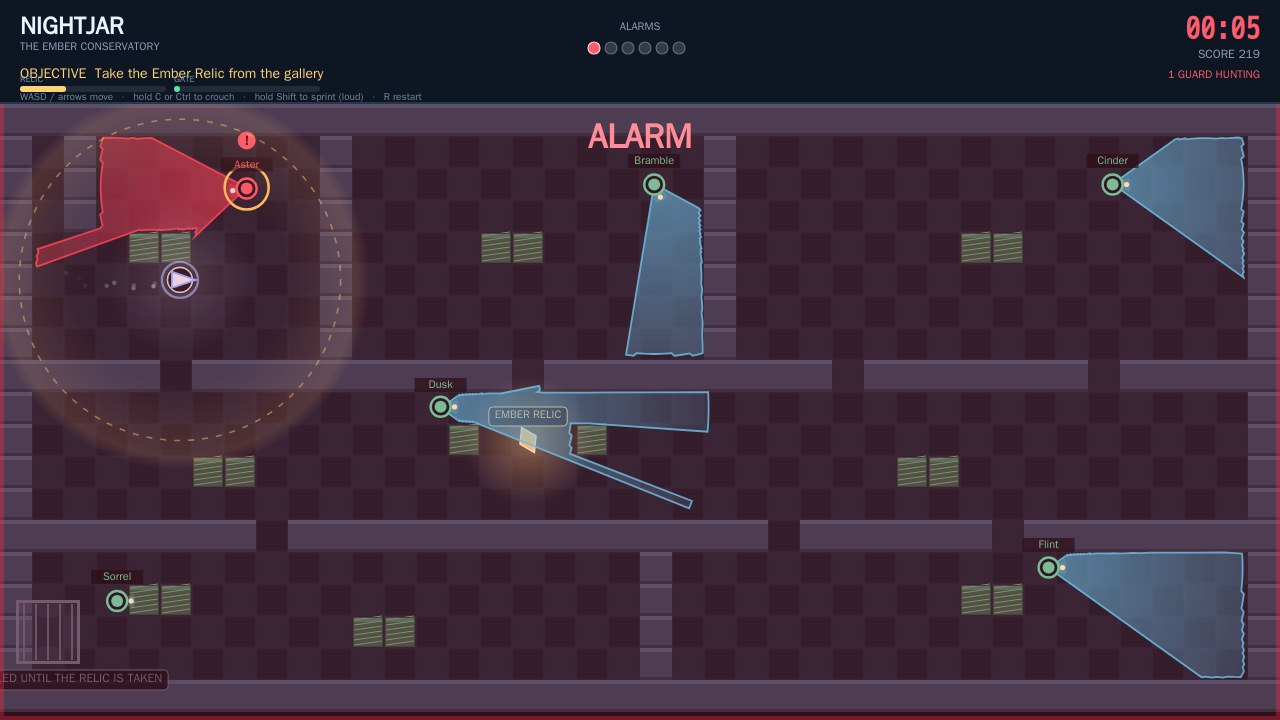
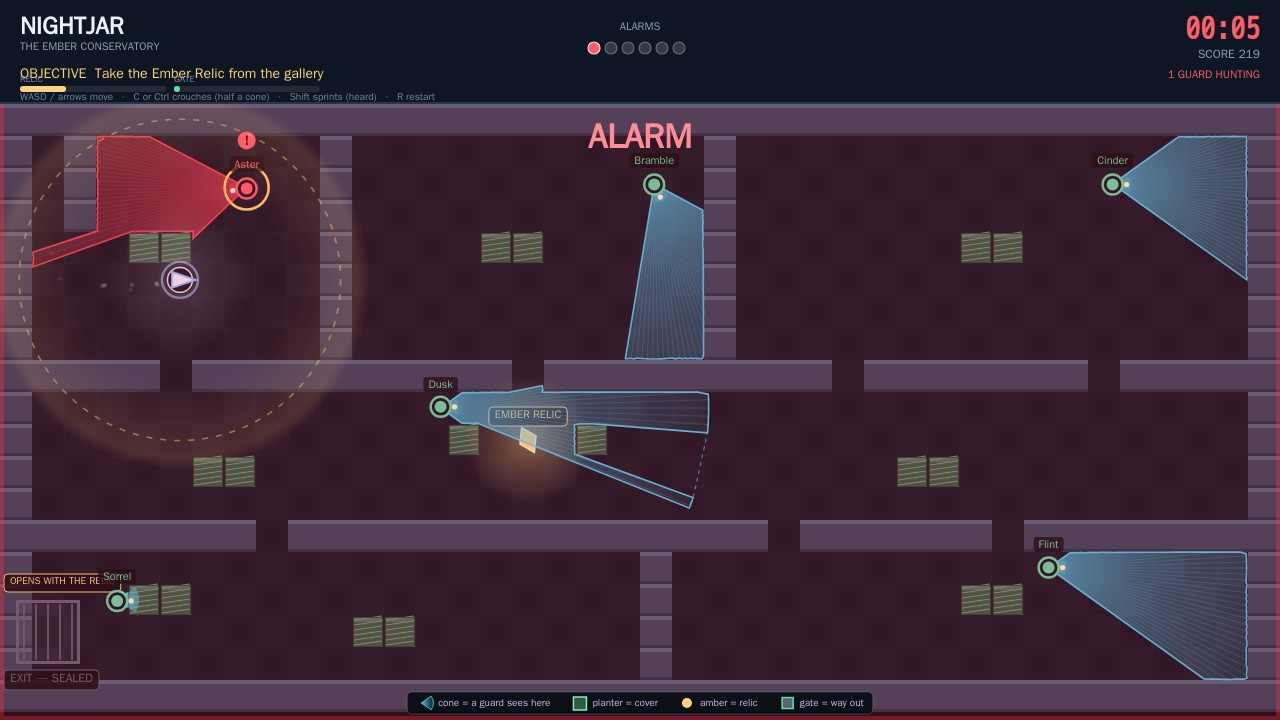
Nightjar: legible cones, exit plate on screen, escape leads the sheet

diff --git a/game/src/render.js b/game/src/render.js
@@ -112,8 +112,11 @@ function coverHidesThief(world, cover) {
 function plateLabel(ctx, text, x, y, colour, size = 12) {
   ctx.font = `700 ${size}px ${FONT}`;
   const width = ctx.measureText(text).width + 12;
-  ctx.fillStyle = 'rgba(5,9,15,0.82)';
-  roundRect(ctx, x - width / 2, y - size, width, size + 8, 4);
+  // Clamp the plate inside the field: a label on a map-edge object such as the west gate must not
+  // lose half its words off the side of the screen.
+  const left = Math.max(4, Math.min(FIELD.width - width - 4, x - width / 2));
+  ctx.fillStyle = 'rgba(5,9,15,0.86)';
+  roundRect(ctx, left, y - size, width, size + 8, 4);
   ctx.fill();
   ctx.strokeStyle = colour;
   ctx.lineWidth = 1;
@@ -121,7 +124,7 @@ function plateLabel(ctx, text, x, y, colour, size = 12) {
   ctx.fillStyle = colour;
   ctx.textAlign = 'center';
   ctx.textBaseline = 'middle';
-  ctx.fillText(text, x, y - size / 2 + 2);
+  ctx.fillText(text, left + width / 2, y - size / 2 + 2);
 }
 
 /** The gate: barred and red while the relic is out there, green and lit once it is in hand. */
@@ -161,7 +164,12 @@ function drawExit(ctx, world) {
   ctx.restore();
   // The gate's caption states the rule, not just the state: a locked exit that never says why reads
   // as scenery, and the judge's first criterion is an exit to reach unseen.
-  plateLabel(ctx, open ? 'EXIT — OPEN' : 'EXIT — SEALED UNTIL THE RELIC IS TAKEN', x, y + EXIT.height / 2 + 18, colour, 12);
+  plateLabel(ctx, open ? 'EXIT — OPEN' : 'EXIT — SEALED', x, y + EXIT.height / 2 + 18, colour, 12);
+  if (!open) {
+    // The rule is stated on a second line rather than in one long label, so the plate stays on screen
+    // at the map's west edge instead of running off it.
+    plateLabel(ctx, 'OPENS WITH THE RELIC', x, y - EXIT.height / 2 - 16, PALETTE.relic, 10);
+  }
   if (open) {
     // A direction arrow so the way out is never hunted for after the pickup.
     const pulse2 = 0.55 + 0.45 * Math.sin(world.time * 5);
@@ -212,40 +220,102 @@ function drawCone(ctx, world, guard) {
   const state = guard.viewState ?? 'calm';
   const colour = state === 'alert' ? PALETTE.coneAlarm : state === 'suspicious' ? PALETTE.coneSeen : PALETTE.cone;
   const range = state === 'alert' ? GUARD.coneRange * 1.25 : GUARD.coneRange;
-  const rays = 84;
+  const rays = 120;
   const points = [];
+  const reach = [];
   for (let i = 0; i <= rays; i += 1) {
     const angle = guard.facing - GUARD.coneAngle + (i / rays) * GUARD.coneAngle * 2;
+    const cos = Math.cos(angle);
+    const sin = Math.sin(angle);
     let distance = range;
-    // March out in small steps and stop at the first opaque tile: the cone's edge is the wall.
-    for (let d = 6; d <= range; d += 3) {
-      const px = guard.x + Math.cos(angle) * d;
-      const py = guard.y + Math.sin(angle) * d;
-      const { col, row } = tileOf(px, py);
+    // March out in one-pixel steps and stop at the first opaque tile, so the cut edge of the cone
+    // lands on the wall instead of stair-stepping across it.
+    for (let d = 4; d <= range; d += 1) {
+      const { col, row } = tileOf(guard.x + cos * d, guard.y + sin * d);
       const ch = charAt(world.level.tiles, col, row);
       if (ch === '#' || ch === 'c') {
-        // Stop short of the obstruction: a cone must never paint over a wall.
-        distance = Math.max(6, d - 7);
+        distance = Math.max(0, d - 2);
         break;
       }
     }
-    points.push([guard.x + Math.cos(angle) * distance, guard.y + Math.sin(angle) * distance]);
+    reach.push(distance);
+    points.push([guard.x + cos * distance, guard.y + sin * distance]);
+  }
+
+  // A guard staring into a wall still gets a short stub of light rather than nothing: a missing cone
+  // reads as a guard with no eyes, and every guard on the floor has to look dangerous.
+  const longest = Math.max(...reach);
+  const stub = longest < 26 ? 26 / Math.max(longest, 1) : 1;
+  if (stub > 1) {
+    const cos = Math.cos(guard.facing);
+    const sin = Math.sin(guard.facing);
+    ctx.save();
+    ctx.globalAlpha = 0.5;
+    ctx.fillStyle = colour;
+    ctx.beginPath();
+    ctx.moveTo(guard.x, guard.y);
+    ctx.arc(guard.x, guard.y, 22, guard.facing - GUARD.coneAngle, guard.facing + GUARD.coneAngle);
+    ctx.closePath();
+    ctx.fill();
+    ctx.restore();
   }
 
   ctx.save();
-  const gradient = ctx.createRadialGradient(guard.x, guard.y, 8, guard.x, guard.y, range);
-  gradient.addColorStop(0, `${colour}99`);
-  gradient.addColorStop(0.55, `${colour}55`);
-  gradient.addColorStop(1, `${colour}22`);
+  // The fill is light, not paint: the floor, the planters and the grout all stay readable through it,
+  // and the beam fades along its own length so its far edge is soft.
+  const gradient = ctx.createRadialGradient(guard.x, guard.y, 6, guard.x, guard.y, Math.max(range, 30));
+  gradient.addColorStop(0, `${colour}8c`);
+  gradient.addColorStop(0.45, `${colour}4d`);
+  gradient.addColorStop(1, `${colour}14`);
   ctx.fillStyle = gradient;
   ctx.beginPath();
   ctx.moveTo(guard.x, guard.y);
   for (const [px, py] of points) ctx.lineTo(px, py);
   ctx.closePath();
   ctx.fill();
-  ctx.strokeStyle = `${colour}dd`;
-  ctx.lineWidth = 1.8;
+
+  // Fine radial striations, so the shape reads as a beam of light rather than a flat polygon.
+  ctx.save();
+  ctx.beginPath();
+  ctx.moveTo(guard.x, guard.y);
+  for (const [px, py] of points) ctx.lineTo(px, py);
+  ctx.closePath();
+  ctx.clip();
+  ctx.strokeStyle = `${colour}2e`;
+  ctx.lineWidth = 1;
+  for (let i = 0; i < points.length; i += 3) {
+    const [px, py] = points[i];
+    ctx.beginPath();
+    ctx.moveTo(guard.x, guard.y);
+    ctx.lineTo(px, py);
+    ctx.stroke();
+  }
+  ctx.restore();
+
+  // The outline, and a dashed arc where the beam reaches its range: solid edges are hard geometry,
+  // dashed ones are a limit, so the two never get confused.
+  ctx.strokeStyle = `${colour}e6`;
+  ctx.lineWidth = 1.6;
+  ctx.beginPath();
+  ctx.moveTo(guard.x, guard.y);
+  for (const [px, py] of points) ctx.lineTo(px, py);
+  ctx.closePath();
   ctx.stroke();
+
+  ctx.setLineDash([4, 4]);
+  ctx.strokeStyle = `${colour}99`;
+  ctx.lineWidth = 1.2;
+  ctx.beginPath();
+  const capFrom = Math.round(rays * 0.14);
+  const capTo = Math.round(rays * 0.86);
+  for (let i = capFrom; i <= capTo; i += 1) {
+    if (reach[i] < range * 0.92) continue;
+    const [px, py] = points[i];
+    if (i === capFrom) ctx.moveTo(px, py);
+    else ctx.lineTo(px, py);
+  }
+  ctx.stroke();
+  ctx.setLineDash([]);
   ctx.restore();
 }
 
@@ -297,8 +367,11 @@ function drawGuard(ctx, world, guard) {
   ctx.font = `600 11px ${FONT}`;
   ctx.textAlign = 'center';
   ctx.textBaseline = 'middle';
-  ctx.fillStyle = 'rgba(5,9,15,0.72)';
-  ctx.fillRect(guard.x - 26, guard.y - 30, 52, 14);
+  // The name plate is measured, not fixed: a long name must not spill past its own backing.
+  const nameW = ctx.measureText(guard.name).width + 10;
+  ctx.fillStyle = 'rgba(5,9,15,0.78)';
+  roundRect(ctx, guard.x - nameW / 2, guard.y - 31, nameW, 15, 3);
+  ctx.fill();
   ctx.fillStyle = colour;
   ctx.fillText(guard.name, guard.x, guard.y - 23);
 
@@ -405,6 +478,27 @@ function drawPlayer(ctx, world) {
     ctx.strokeStyle = '#fff4d2';
     ctx.lineWidth = 1.4;
     ctx.stroke();
+    ctx.restore();
+  }
+
+  // A small "YOU" tag under the thief. The judge has one frame to work out which token is the
+  // player, and a cyan chevron among amber guards still needs to be named once.
+  if (p.hasRelic || world.screen === SCREEN_PLAY) {
+    ctx.save();
+    ctx.font = `700 9px ${FONT}`;
+    ctx.textAlign = 'center';
+    ctx.textBaseline = 'middle';
+    const label = p.crouched ? 'YOU — HIDDEN' : 'YOU';
+    const w = ctx.measureText(label).width + 8;
+    const ty = p.y + radius + 13;
+    ctx.fillStyle = 'rgba(5,10,16,0.8)';
+    roundRect(ctx, p.x - w / 2, ty - 6, w, 12, 3);
+    ctx.fill();
+    ctx.strokeStyle = 'rgba(95,215,255,0.7)';
+    ctx.lineWidth = 1;
+    ctx.stroke();
+    ctx.fillStyle = PALETTE.playerCloak;
+    ctx.fillText(label, p.x, ty);
     ctx.restore();
   }
 }
@@ -527,14 +621,14 @@ function drawHud(ctx, world) {
   ctx.textAlign = 'right';
   ctx.font = `600 11px ${FONT}`;
   ctx.fillStyle = alerts > 0 ? PALETTE.alert : suspicious > 0 ? PALETTE.suspicious : PALETTE.calm;
-  const watch = alerts > 0 ? `${alerts} GUARD${alerts > 1 ? 'S' : ''} HUNTING` : suspicious > 0 ? `${suspicious} SUSPICIOUS` : 'ALL CLEAR';
+  const watch = alerts > 0 ? `${alerts} GUARD${alerts > 1 ? 'S' : ''} HUNTING` : suspicious > 0 ? `${suspicious} SEEN YOU — SUSPICIOUS` : 'NO ALARMS YET';
   ctx.fillText(watch, rightX, 78);
 
   // The controls, so a first-time player knows how to move.
   ctx.textAlign = 'left';
   ctx.font = `500 10px ${FONT}`;
   ctx.fillStyle = 'rgba(142,163,189,0.8)';
-  ctx.fillText('WASD / arrows move   ·   hold C or Ctrl to crouch   ·   hold Shift to sprint (loud)   ·   R restart', 20, 100);
+  ctx.fillText('WASD / arrows move   ·   C or Ctrl crouches (half a cone)   ·   Shift sprints (heard)   ·   R restart', 20, 100);
 }
 
 /** The title, won and caught overlays: one panel, centred, with the run's numbers. */
@@ -593,6 +687,88 @@ function drawOverlay(ctx, world) {
 }
 
 /**
+ * A compact field-notes strip along the bottom wall band, with swatches drawn the same way the map
+ * draws them. A legend that rhymes with the art teaches the visual language in one glance — what a
+ * cone is, what cover is, what is safe, and where the way out is — and it sits on solid wall so it
+ * never hides the level.
+ */
+function drawFieldNotes(ctx) {
+  const items = [
+    ['cone = a guard sees here', PALETTE.cone, 'cone'],
+    ['planter = cover', PALETTE.coverSafe, 'cover'],
+    ['relic = the prize', PALETTE.relic, 'dot'],
+    ['gate = way out', PALETTE.exitOpen, 'gate'],
+    ['cyan = you', PALETTE.playerCloak, 'you'],
+  ];
+  ctx.save();
+  ctx.font = `600 10px ${FONT}`;
+  const gap = 26;
+  let total = 0;
+  for (const [label] of items) total += 16 + ctx.measureText(label).width + gap;
+  total -= gap;
+
+  const h = 22;
+  const y = FIELD.height - h - 6;
+  const x0 = FIELD.width / 2 - total / 2;
+  ctx.fillStyle = 'rgba(6,10,16,0.9)';
+  roundRect(ctx, x0 - 12, y, total + 24, h, 5);
+  ctx.fill();
+  ctx.strokeStyle = 'rgba(120,150,185,0.35)';
+  ctx.lineWidth = 1;
+  ctx.stroke();
+
+  ctx.textAlign = 'left';
+  ctx.textBaseline = 'middle';
+  let x = x0;
+  const cy = y + h / 2;
+  for (const [label, colour, kind] of items) {
+    if (kind === 'cone') {
+      const g = ctx.createRadialGradient(x + 2, cy, 1, x + 2, cy, 12);
+      g.addColorStop(0, `${colour}cc`);
+      g.addColorStop(1, `${colour}18`);
+      ctx.fillStyle = g;
+      ctx.beginPath();
+      ctx.moveTo(x + 2, cy);
+      ctx.arc(x + 2, cy, 12, -0.6, 0.6);
+      ctx.closePath();
+      ctx.fill();
+      ctx.strokeStyle = `${colour}dd`;
+      ctx.lineWidth = 1;
+      ctx.stroke();
+    } else if (kind === 'cover') {
+      ctx.fillStyle = PALETTE.cover;
+      ctx.fillRect(x, cy - 6, 13, 13);
+      ctx.strokeStyle = colour;
+      ctx.lineWidth = 1.4;
+      ctx.strokeRect(x, cy - 6, 13, 13);
+    } else if (kind === 'dot') {
+      ctx.beginPath();
+      ctx.arc(x + 6, cy, 5, 0, Math.PI * 2);
+      ctx.fillStyle = colour;
+      ctx.fill();
+    } else if (kind === 'you') {
+      ctx.beginPath();
+      ctx.moveTo(x + 11, cy);
+      ctx.lineTo(x + 1, cy + 5);
+      ctx.lineTo(x + 1, cy - 5);
+      ctx.closePath();
+      ctx.fillStyle = colour;
+      ctx.fill();
+    } else {
+      ctx.fillStyle = PALETTE.exitLocked;
+      ctx.fillRect(x + 1, cy - 6, 12, 12);
+      ctx.strokeStyle = colour;
+      ctx.lineWidth = 1.4;
+      ctx.strokeRect(x + 1.5, cy - 5.5, 11, 11);
+    }
+    ctx.fillStyle = 'rgba(196,212,232,0.92)';
+    ctx.fillText(label, x + 19, cy);
+    x += 16 + ctx.measureText(label).width + gap;
+  }
+  ctx.restore();
+}
+
+/**
  * Draw a whole frame. `view` is the logical 1280x720 area; the caller has already scaled the
  * canvas so that area fills the window.
  */
@@ -608,6 +784,7 @@ export function render(ctx, world) {
   if (world.screen !== SCREEN_TITLE) drawPlayer(ctx, world);
   drawAlarm(ctx, world);
   drawHud(ctx, world);
+  if (world.screen === SCREEN_PLAY) drawFieldNotes(ctx);
   drawOverlay(ctx, world);
   ctx.restore();
 }

diff --git a/game/src/config.js b/game/src/config.js
@@ -59,25 +59,25 @@ export const SCORE = { perSecond: 2, perAlarm: 1, silent: 40, extraction: 100 };
 
 export const PALETTE = {
   void: '#070b12',
-  floor: '#152231',
-  floorAlt: '#101a27',
-  grid: '#1b2b3d66',
-  wall: '#2c3f56',
-  wallTop: '#3d5570',
+  floor: '#0f1926',
+  floorAlt: '#0b1420',
+  grid: '#16222f55',
+  wall: '#33455c',
+  wallTop: '#4d6480',
   cover: '#2f5a44',
   coverTop: '#3f7a5c',
   coverHatch: '#6d9a7e',
   coverSafe: '#8ef7c0',
-  relic: '#ffd479',
+  relic: '#fff1c2',
   exitLocked: '#5a6474',
   exitOpen: '#5ce6a4',
-  player: '#e8f1ff',
-  playerCloak: '#8fb6ff',
-  cone: '#4fd6ff',
+  player: '#d9f6ff',
+  playerCloak: '#5fd7ff',
+  cone: '#e8a33f',
   coneSeen: '#ffc247',
   coneAlarm: '#ff4459',
-  calm: '#63d8a4',
-  suspicious: '#ffd166',
+  calm: '#e8a33f',
+  suspicious: '#ffc247',
   alert: '#ff5d6c',
   panel: '#0d1622',
   panelEdge: '#24374b',
